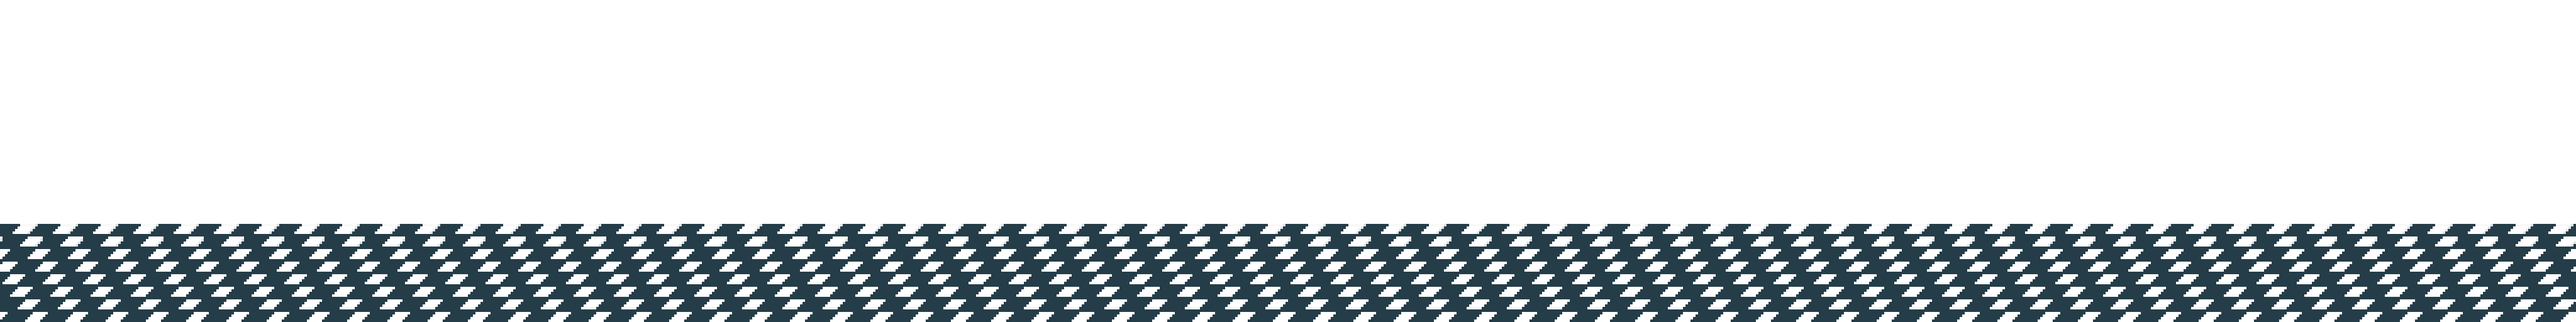
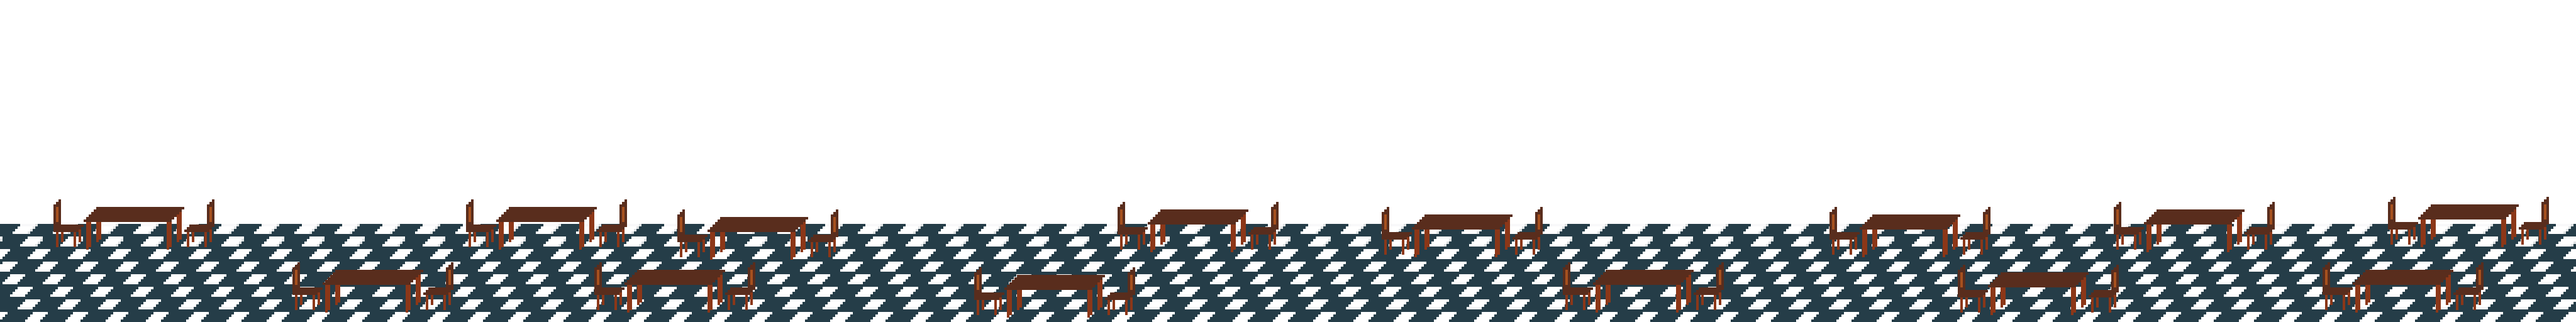
add tables and change graphics

diff --git a/htdocs/js/main.js b/htdocs/js/main.js
@@ -49,7 +49,7 @@ $(window).load(function() {
 	// update positions
 	character.rotation += 0.01;
 	backgroundFar.tilePosition.x -= 0.5;
-	backgroundMid.tilePosition.x -= 1;
+	backgroundMid.tilePosition.x -= 2;
 	
 	// render
 	renderer.render(stage);
